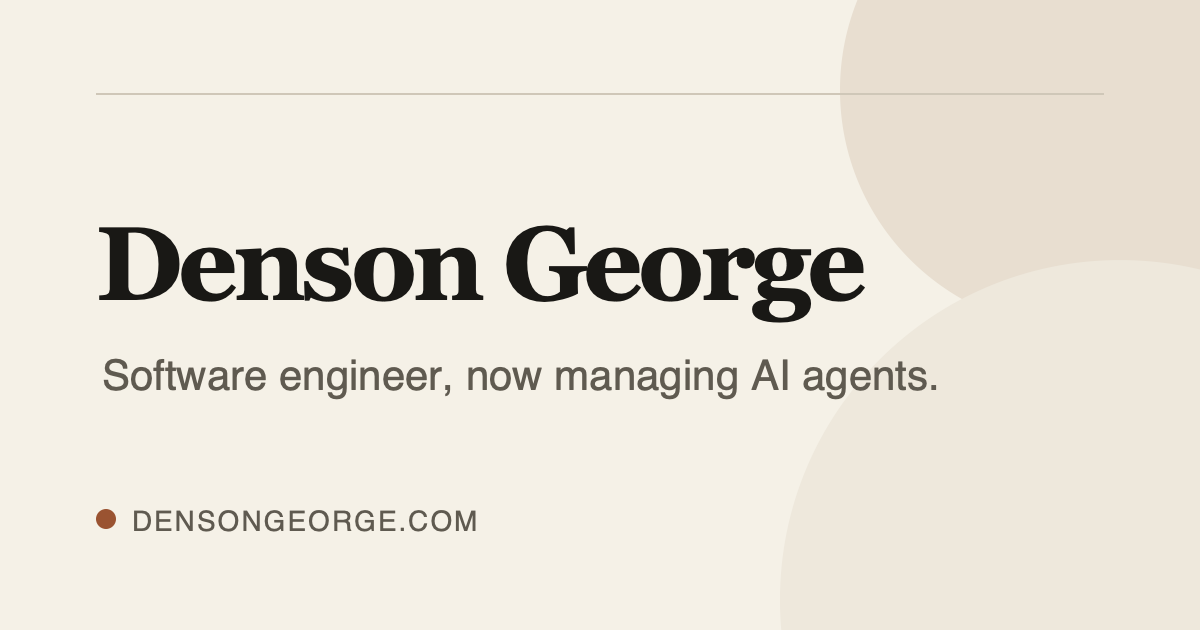
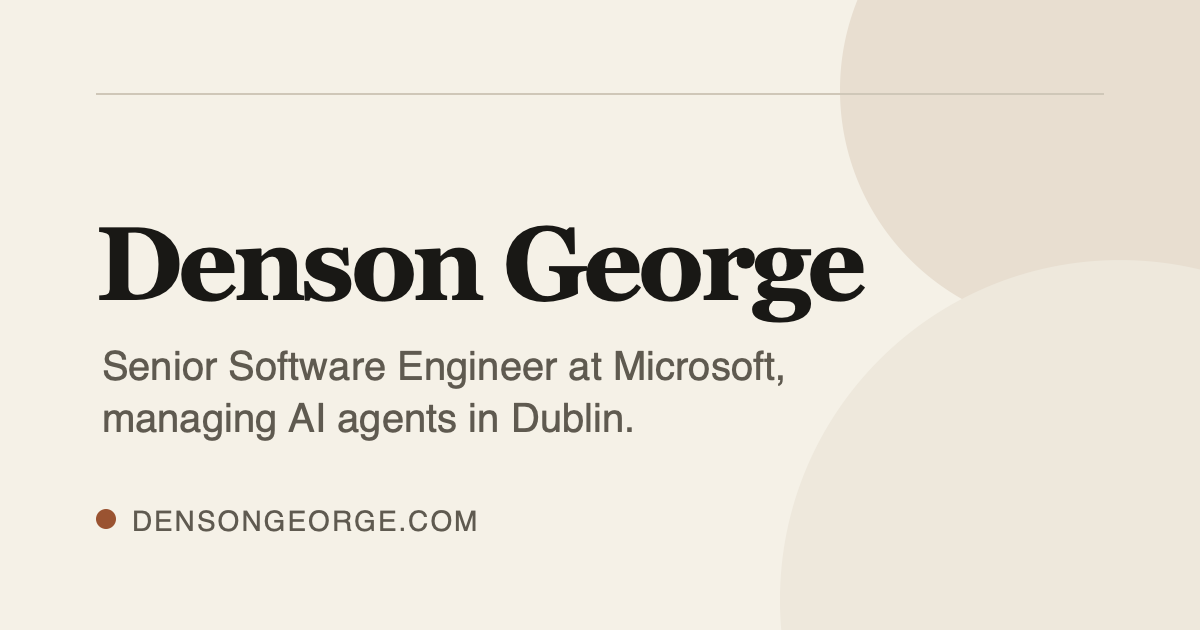
Update confirmed profile details

Changed region(s): [[0.0617, 0.5429, 0.7708, 0.6937]]

diff --git a/src/consts.ts b/src/consts.ts
@@ -1,4 +1,4 @@
 export const SITE_URL = "https://densongeorge.com";
 export const SITE_NAME = "Denson George";
 export const SITE_DESCRIPTION =
-  "The personal website and writing of Denson George — software engineer, now managing AI agents.";
+  "Denson George is a Senior Software Engineer at Microsoft in Dublin, managing AI agents.";
